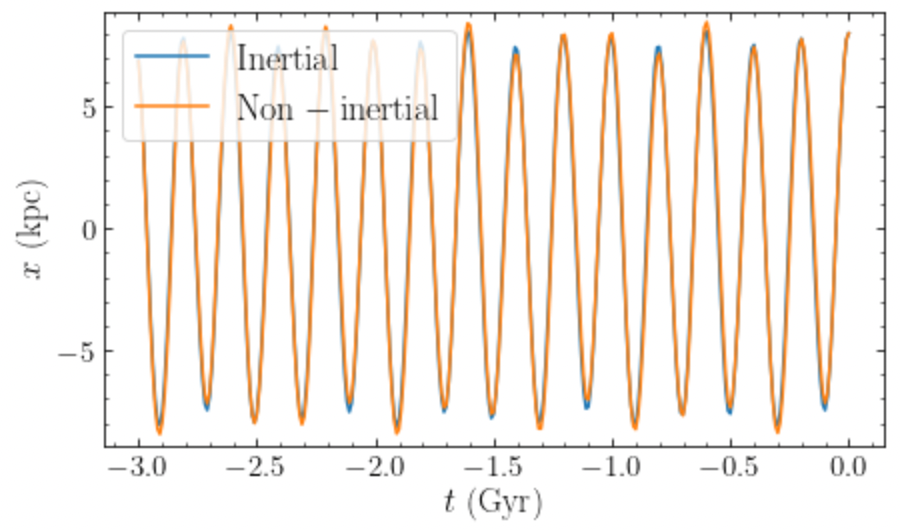
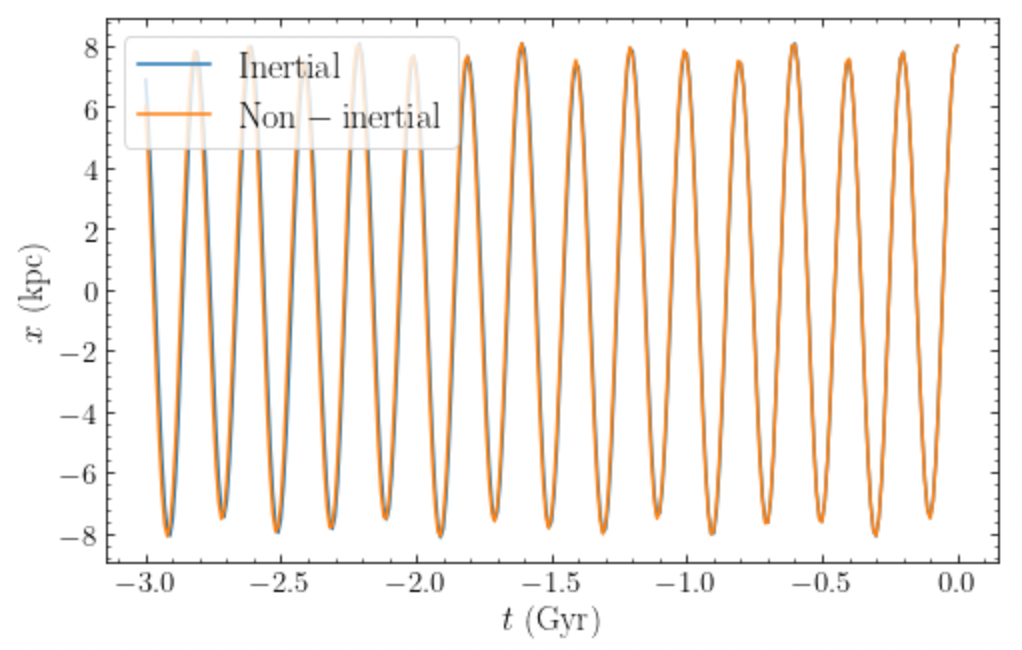
Update LMC barycenter acceleration section to include the LMC's force as well

diff --git a/doc/source/orbit.rst b/doc/source/orbit.rst
@@ -1314,6 +1314,7 @@ previous example in section :ref:`orbit-example-LMC-dynfric`. We repeat the
 code here for convenience (we choose again to increase the halo mass in 
 ``MWPotential2014`` by 50% and we choose the heaviest LMC for this example)
 
+>>> import numpy
 >>> from astropy import units
 >>> from galpy.potential import MWPotential2014, ChandrasekharDynamicalFrictionForce
 >>> from galpy.orbit import Orbit
@@ -1380,14 +1381,17 @@ with this acceleration of the origin
 
 As an example, let's compute the past orbit of the Sun with and without taking 
 the acceration of the origin into account. We'll look at how the x position 
-changes in time
+changes in time. When taking the acceleration of the origin into account, 
+it is important to also include the acceleration due to LMC itself. Without it, 
+the potential is inconsistent, e.g., the origin itself would move in the frame 
+in which it is supposed to be at rest!
 
 >>> sunts= numpy.linspace(0.,-3.,301)*units.Gyr
 >>> osun_inertial= Orbit()
 >>> osun_inertial.integrate(sunts,MWPotential2014)
 >>> osun_inertial.plotx(label=r'$\mathrm{Inertial}$')
 >>> osun_noninertial= Orbit()
->>> osun_noninertial.integrate(sunts,MWPotential2014+nip)
+>>> osun_noninertial.integrate(sunts,MWPotential2014+nip+moving_lmcpot)
 >>> osun_noninertial.plotx(overplot=True,label=r'$\mathrm{Non-inertial}$')
 >>> plt.legend(fontsize=18.,loc='upper left',framealpha=0.8)
 
@@ -1396,19 +1400,21 @@ This gives
 .. image:: images/mwp14-lmcacc-sun.png
    :scale: 60 %
 
-We see that there is only a small difference. This is because the 
+We see that there is essentially no difference. This is because the 
 acceleration of the origin due to the LMC is much smaller than the 
-acceleration felt by the Sun during its orbit from the Milky Way. 
-However, if we look at a dwarf galaxy orbiting far in the halo, we 
-do notice small differences. For example, let's look at the orbit 
-of Fornax over the past 10 Gyr
+acceleration felt by the Sun during its orbit from the Milky Way *and* the Sun 
+is so close to the Galactic center relative to the LMC that much of the 
+acceleration of the origin is cancelled by the attraction to the LMC (which 
+at the center are equal in magnitude and opposite in sign). However, if we look 
+at a dwarf galaxy orbiting far in the halo, we do notice small differences. For 
+example, let's look at the orbit of Fornax over the past 10 Gyr
 
 >>> fornaxts= numpy.linspace(0.,-10.,101)*units.Gyr
 >>> ofornax_inertial= Orbit.from_name('Fornax')
 >>> ofornax_inertial.integrate(fornaxts,MWPotential2014)
 >>> ofornax_inertial.plotr(label=r'$\mathrm{Inertial}$')
 >>> ofornax_noninertial= Orbit.from_name('Fornax')
->>> ofornax_noninertial.integrate(fornaxts,MWPotential2014+nip)
+>>> ofornax_noninertial.integrate(fornaxts,MWPotential2014+nip+moving_lmcpot)
 >>> ofornax_noninertial.plotr(overplot=True,label=r'$\mathrm{Non-inertial}$')
 >>> plt.autoscale()
 >>> plt.legend(fontsize=18.,loc='lower right',framealpha=0.8)
